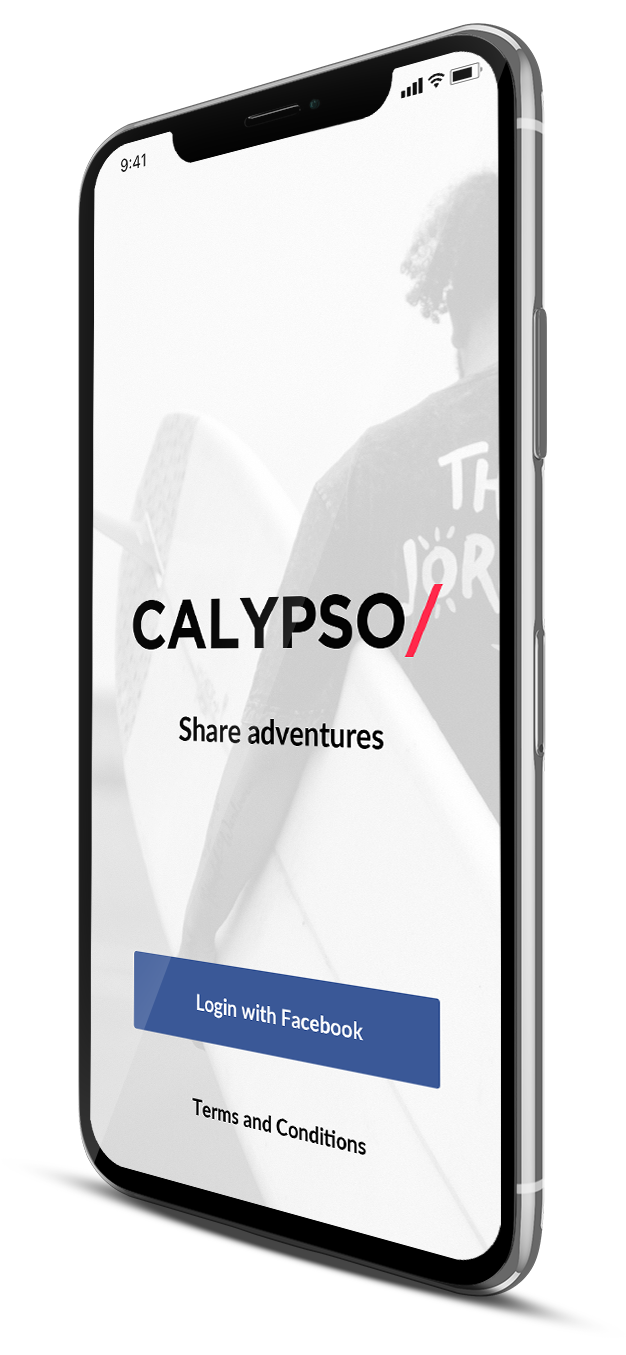
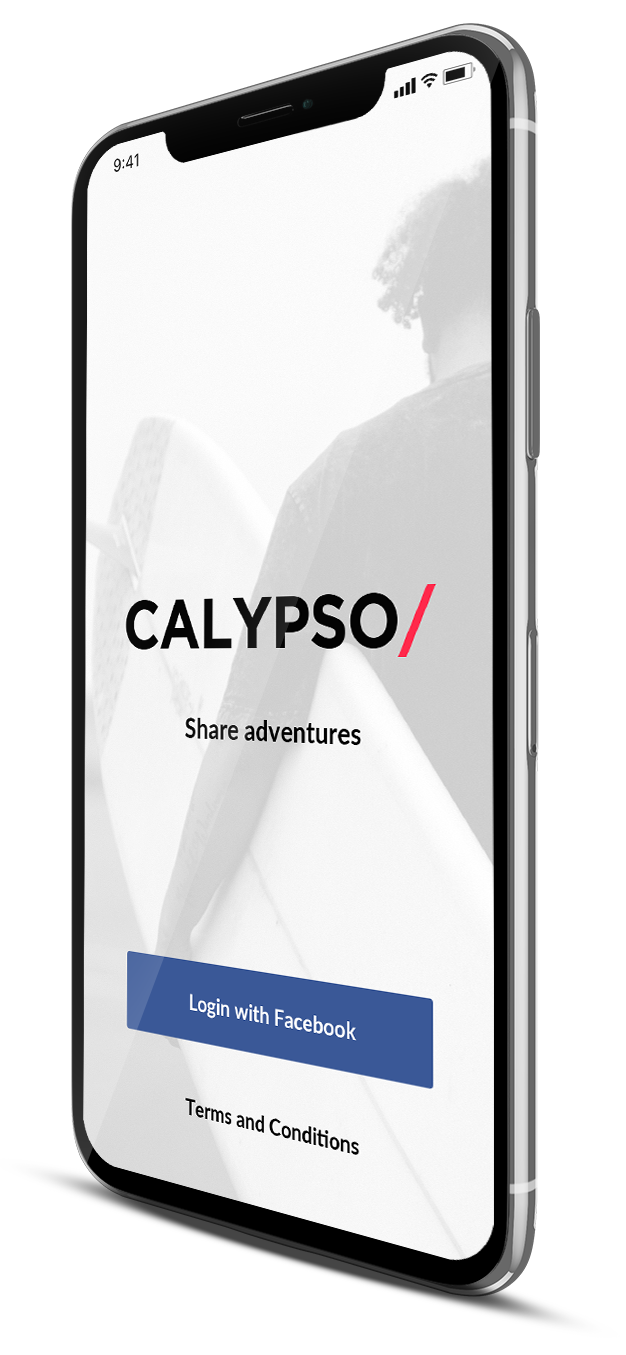
added mockups to calypso

diff --git a/app/assets/stylesheets/pages/_calypso.scss b/app/assets/stylesheets/pages/_calypso.scss
@@ -16,7 +16,6 @@
   transform:translateY(30%);
 }
 
-
 .calypso-smartphone img {
   position: relative;
   display: block;
@@ -28,6 +27,18 @@
 .calypso-colors-typo {
   max-width: 1065px;
   margin: auto;
+}
+
+.calypso__content {
+  display: flex;
+  align-items: center;
+  justify-content: center;
+  margin-top: 30px;
+  margin-bottom: 150px;
+  img {
+    width: 80%;
+    max-width: 900px;
+  }
 }
 
 .calypso__card {
@@ -84,6 +95,10 @@
 
 .u-margin-top {
   margin-top: 6vw;
+}
+
+.u-padding-top {
+  padding-top: 200px;
 }
 
 .logo {
@@ -190,6 +205,10 @@ section {
    .calypso-smartphone img {
     width: 30%;
   }
+  .calypso__content {
+    margin-top: 0px;
+    margin-bottom: 120px;
+  }
 }
 
 @media screen and (max-width: 990px) {
@@ -209,9 +228,15 @@ section {
     margin: 30px 0;
     width: 80%;
   }
+  .calypso__content {
+    margin-bottom: 100px;
+  }
   .logo {
   margin: 150px 0 5%;
   }
+  .u-padding-top {
+  padding-top: 100px;
+}
 }
 
 @media screen and (max-width: 768px) {
@@ -222,6 +247,9 @@ section {
   }
   .calypso-smartphone img {
     width: 40%;
+  }
+  .calypso__content {
+    margin-bottom: 80px;
   }
 }
 
